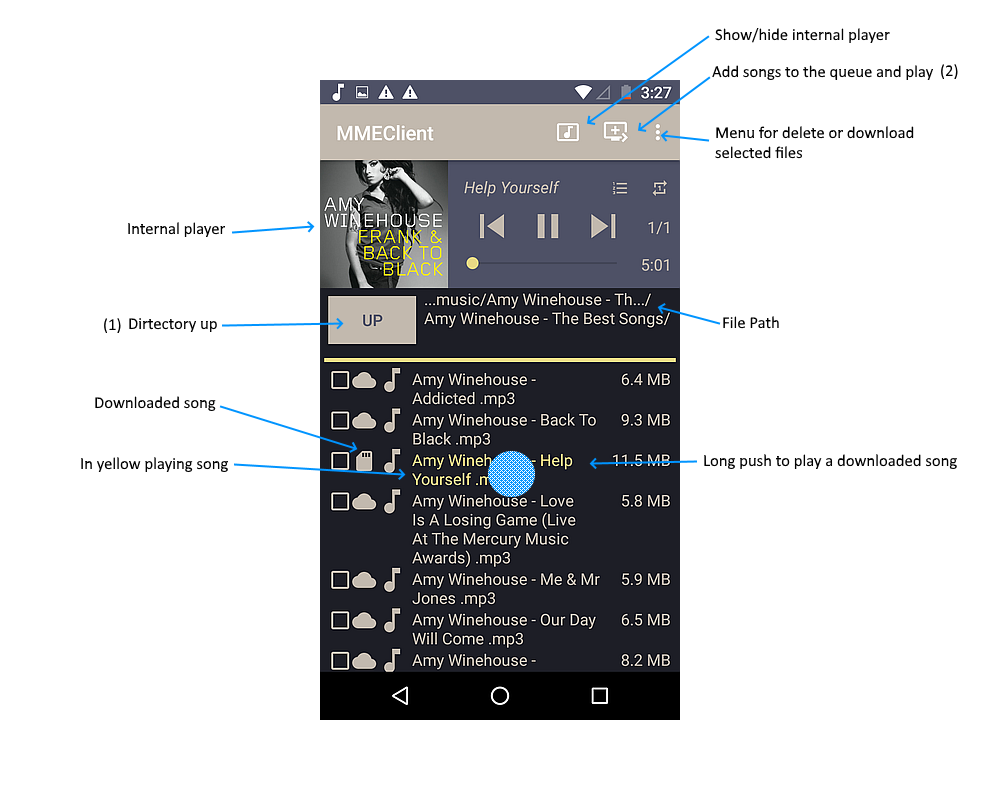
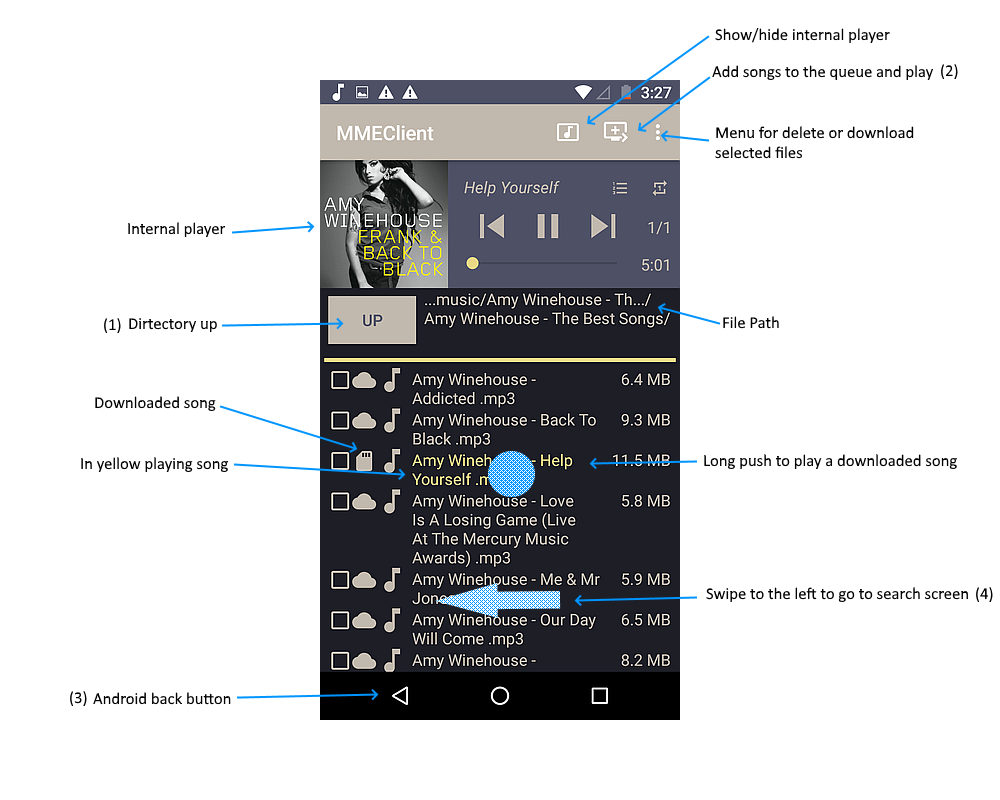
Doccumentation

diff --git a/README.md b/README.md
@@ -86,11 +86,13 @@ To return from the directory screen to a search screen you need to **swipe to th
 ![ScreenShoot directory screen](./pictures/explicacion2.png)
 
 
-In the directory screen you can see the root bucket of the cloud storage with the size of the folders and files an navigate in the directory structure.
+In the directory screen you can see the root bucket of the cloud storage with the size of the folders and files. Then you can navigate in the directory structure.
 
 You can play all of the songs inside a folder or group of folders that are selected. In order to select a folder you need to make a long push of the folder until the selection symbol appears. Then select Add songs to the queue and play (2).
 
-You can use the android back button or the Directory up button (1) to navigate up in the directory structure.
+You can use the android back button(3) or the Directory up button (1) to navigate up in the directory structure.
+
+You can navigate to the search screen with a swipe to the left(4).
 
 
 
